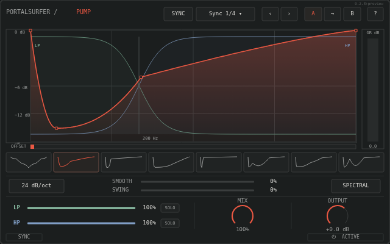
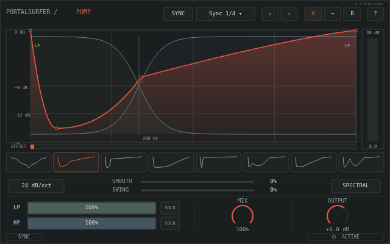
Use rectangular LP/HP sliders with inset percentage readouts

Changed region(s): [[0.0615, 0.8033, 0.4, 0.9467]]

diff --git a/frame-standalone.html b/frame-standalone.html
@@ -94,7 +94,7 @@ button:focus-visible, select:focus-visible { outline: 2px solid #e95843; outline
   function button(c,t,x,y,w,active=false){rect(c,x,y,w,22,2,active?'#282725':C.panel);alignedText(c,t,x+w/2,y+11,9,active?C.accent:C.text);}
   function knob(c,label,value,x,y,a=0){alignedText(c,label,x,y-24,9,C.muted);c.strokeStyle=C.line;c.lineWidth=1;c.beginPath();c.arc(x,y,17,.75*Math.PI,2.25*Math.PI);c.stroke();if(a>0){c.strokeStyle=C.accent;c.lineWidth=2.2;c.beginPath();c.arc(x,y,17,.75*Math.PI,(.75+1.5*a)*Math.PI);c.stroke();}alignedText(c,value,x,y+23,9,C.muted);}
   function slider(c,label,value,x,y,w=282,a=0){text(c,label,x,y,9,C.muted);const tx=x+47,tw=w-84;rect(c,tx,y-1.5,tw,3,1,C.line,null);if(a>0)rect(c,tx,y-1.5,tw*a,3,1,C.accent,null);alignedText(c,value,x+w,y,9,C.text,'right');}
-  function mixRow(c,label,x,y,value,color,tw=118){text(c,label,x,y,9,color,600);rect(c,x+23,y-1.5,tw,3,1,'#353838',null);if(value>0)rect(c,x+23,y-1.5,tw*value,3,1,color,null);alignedText(c,Math.round(value*100)+'%',x+tw+57,y,9,C.text,'right');rect(c,x+tw+65,y-7,30,14,2,C.panel);alignedText(c,'SOLO',x+tw+80,y,7,C.muted);}
+  function mixRow(c,label,x,y,value,color,tw=118){text(c,label,x,y,9,color,600);const bx=x+23,bw=tw+34;rect(c,bx,y-10,bw,20,0,'#282b2b',C.line);if(value>0){c.save();c.globalAlpha=90/255;rect(c,bx+1,y-9,(bw-2)*value,18,0,color,null);c.restore();}alignedText(c,Math.round(value*100)+'%',bx+bw/2,y,9,C.text);rect(c,x+tw+65,y-10,30,20,1,C.panel);alignedText(c,'SOLO',x+tw+80,y,7,C.muted);}
   const shapes=[["Sine", [[0.0, 1.0], [0.16, 0.82], [0.34, 0.36], [0.5, 0.0], [0.66, 0.36], [0.84, 0.82], [1.0, 1.0]], [-0.55, -0.1, 0.25, -0.25, 0.1, 0.55]], ["Soft", [[0.0, 1.0], [0.08, 0.12], [0.34, 0.58], [1.0, 1.0]], [-0.35, 0.42, -0.08]], ["Tight", [[0.0, 1.0], [0.035, 0.02], [0.15, 0.8], [1.0, 1.0]], [-0.58, 0.72, -0.04]], ["Long", [[0.0, 1.0], [0.05, 0.04], [0.46, 0.22], [1.0, 1.0]], [-0.48, 0.58, -0.02]], ["Snap", [[0.0, 1.0], [0.012, 0.22], [0.03, 0.0], [0.075, 0.94], [1.0, 1.0]], [-0.08, 0.02, 0.12, 0.0]], ["Punch", [[0.0, 1.0], [0.02, 0.06], [0.12, 0.44], [0.28, 0.18], [0.58, 0.9], [1.0, 1.0]], [-0.52, 0.3, -0.24, 0.22, -0.04]], ["Thump", [[0.0, 1.0], [0.03, 0.08], [0.18, 0.12], [0.42, 0.48], [0.72, 0.9], [1.0, 1.0]], [-0.35, 0.05, 0.12, 0.08, -0.02]], ["Double", [[0.0, 1.0], [0.04, 0.05], [0.18, 0.82], [0.34, 0.2], [0.56, 0.9], [1.0, 1.0]], [-0.48, 0.18, -0.28, 0.2, -0.05]]];
   function sample(shape,x){const n=shape[1],ts=shape[2];let i=0;while(i<n.length-2&&x>n[i+1][0])i++;const l=n[i],r=n[i+1];let t=Math.max(0,Math.min(1,(x-l[0])/(r[0]-l[0])));const tension=ts[i]||0,power=1+Math.abs(tension)*3;t=tension>=0?Math.pow(t,power):1-Math.pow(1-t,power);return l[1]+(r[1]-l[1])*t;}
   function curve(c,shape,x,y,w,h){c.beginPath();for(let i=0;i<=w;i++){const yy=y+(1-sample(shape,i/w))*h;i?c.lineTo(x+i,yy):c.moveTo(x,yy);}c.stroke();}

diff --git a/examples/pump.js b/examples/pump.js
@@ -7,7 +7,7 @@
   function button(c,t,x,y,w,active=false){rect(c,x,y,w,22,2,active?'#282725':C.panel);alignedText(c,t,x+w/2,y+11,9,active?C.accent:C.text);}
   function knob(c,label,value,x,y,a=0){alignedText(c,label,x,y-24,9,C.muted);c.strokeStyle=C.line;c.lineWidth=1;c.beginPath();c.arc(x,y,17,.75*Math.PI,2.25*Math.PI);c.stroke();if(a>0){c.strokeStyle=C.accent;c.lineWidth=2.2;c.beginPath();c.arc(x,y,17,.75*Math.PI,(.75+1.5*a)*Math.PI);c.stroke();}alignedText(c,value,x,y+23,9,C.muted);}
   function slider(c,label,value,x,y,w=282,a=0){text(c,label,x,y,9,C.muted);const tx=x+47,tw=w-84;rect(c,tx,y-1.5,tw,3,1,C.line,null);if(a>0)rect(c,tx,y-1.5,tw*a,3,1,C.accent,null);alignedText(c,value,x+w,y,9,C.text,'right');}
-  function mixRow(c,label,x,y,value,color,tw=118){text(c,label,x,y,9,color,600);rect(c,x+23,y-1.5,tw,3,1,'#353838',null);if(value>0)rect(c,x+23,y-1.5,tw*value,3,1,color,null);alignedText(c,Math.round(value*100)+'%',x+tw+57,y,9,C.text,'right');rect(c,x+tw+65,y-7,30,14,2,C.panel);alignedText(c,'SOLO',x+tw+80,y,7,C.muted);}
+  function mixRow(c,label,x,y,value,color,tw=118){text(c,label,x,y,9,color,600);const bx=x+23,bw=tw+34;rect(c,bx,y-10,bw,20,0,'#282b2b',C.line);if(value>0){c.save();c.globalAlpha=90/255;rect(c,bx+1,y-9,(bw-2)*value,18,0,color,null);c.restore();}alignedText(c,Math.round(value*100)+'%',bx+bw/2,y,9,C.text);rect(c,x+tw+65,y-10,30,20,1,C.panel);alignedText(c,'SOLO',x+tw+80,y,7,C.muted);}
   const shapes=[["Sine", [[0.0, 1.0], [0.16, 0.82], [0.34, 0.36], [0.5, 0.0], [0.66, 0.36], [0.84, 0.82], [1.0, 1.0]], [-0.55, -0.1, 0.25, -0.25, 0.1, 0.55]], ["Soft", [[0.0, 1.0], [0.08, 0.12], [0.34, 0.58], [1.0, 1.0]], [-0.35, 0.42, -0.08]], ["Tight", [[0.0, 1.0], [0.035, 0.02], [0.15, 0.8], [1.0, 1.0]], [-0.58, 0.72, -0.04]], ["Long", [[0.0, 1.0], [0.05, 0.04], [0.46, 0.22], [1.0, 1.0]], [-0.48, 0.58, -0.02]], ["Snap", [[0.0, 1.0], [0.012, 0.22], [0.03, 0.0], [0.075, 0.94], [1.0, 1.0]], [-0.08, 0.02, 0.12, 0.0]], ["Punch", [[0.0, 1.0], [0.02, 0.06], [0.12, 0.44], [0.28, 0.18], [0.58, 0.9], [1.0, 1.0]], [-0.52, 0.3, -0.24, 0.22, -0.04]], ["Thump", [[0.0, 1.0], [0.03, 0.08], [0.18, 0.12], [0.42, 0.48], [0.72, 0.9], [1.0, 1.0]], [-0.35, 0.05, 0.12, 0.08, -0.02]], ["Double", [[0.0, 1.0], [0.04, 0.05], [0.18, 0.82], [0.34, 0.2], [0.56, 0.9], [1.0, 1.0]], [-0.48, 0.18, -0.28, 0.2, -0.05]]];
   function sample(shape,x){const n=shape[1],ts=shape[2];let i=0;while(i<n.length-2&&x>n[i+1][0])i++;const l=n[i],r=n[i+1];let t=Math.max(0,Math.min(1,(x-l[0])/(r[0]-l[0])));const tension=ts[i]||0,power=1+Math.abs(tension)*3;t=tension>=0?Math.pow(t,power):1-Math.pow(1-t,power);return l[1]+(r[1]-l[1])*t;}
   function curve(c,shape,x,y,w,h){c.beginPath();for(let i=0;i<=w;i++){const yy=y+(1-sample(shape,i/w))*h;i?c.lineTo(x+i,yy):c.moveTo(x,yy);}c.stroke();}
